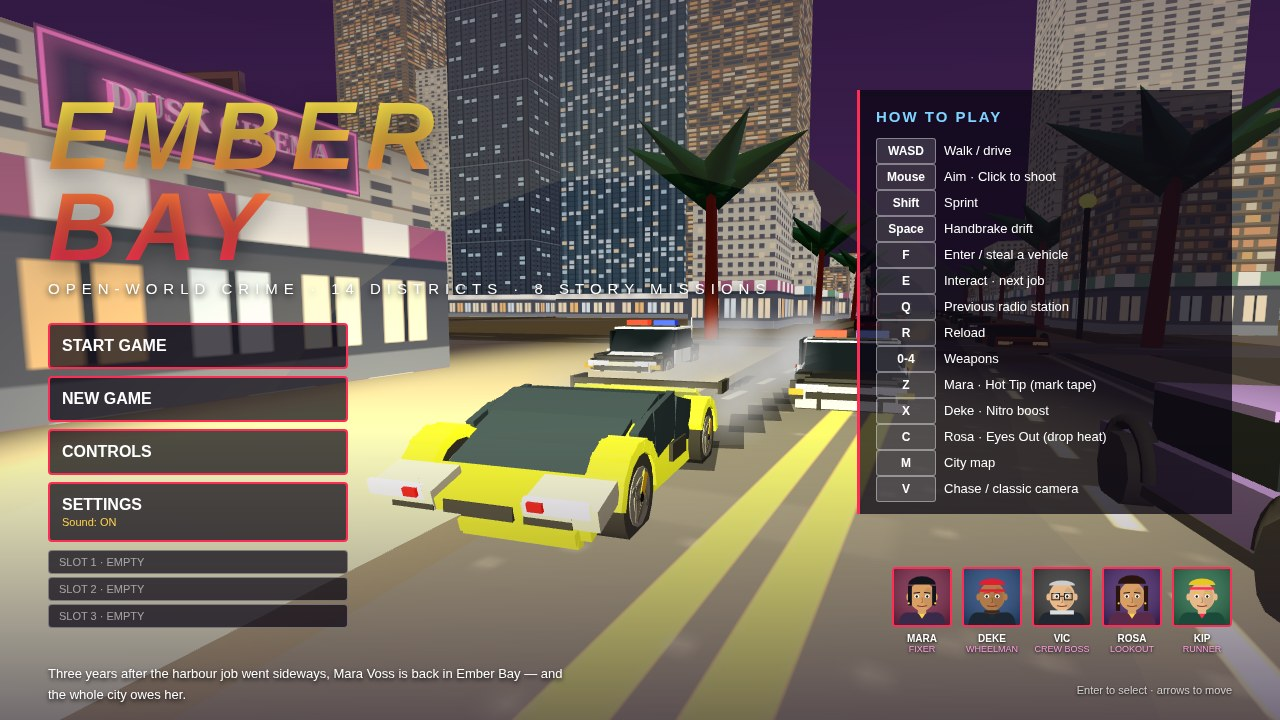
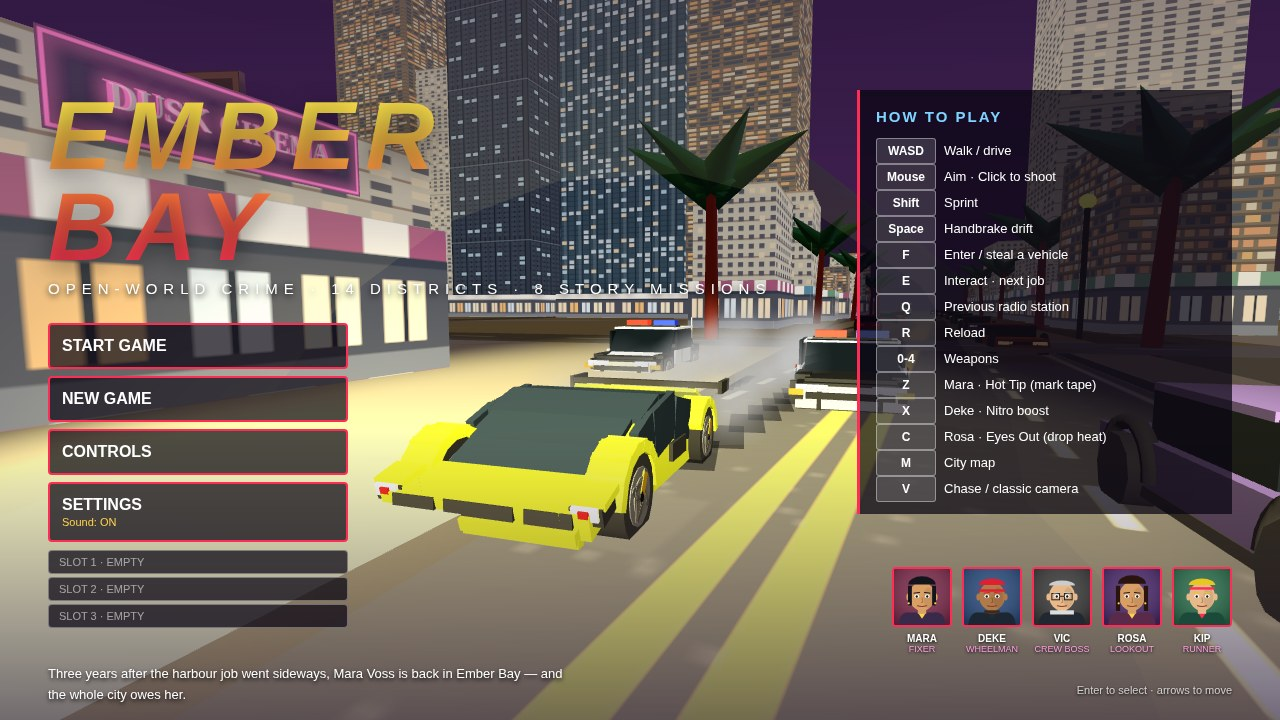
Ember Bay v18.27: v18.25 tire-width covered lamps + black below, on v18.26 full side glass

Changed region(s): [[0.4062, 0.6417, 0.5, 0.7639], [0.2812, 0.6417, 0.375, 0.7028]]

diff --git a/game/src/vehicles.js b/game/src/vehicles.js
@@ -211,7 +211,7 @@ export function makeCar(G, kind, colorIdx = 0) {
     lamps(g, 2.62, -2.62, .9);
   } else if (kind === 'sport') {
     parts(g,[
-[2,.42,4.2,0,.38,-.5,0],[1,.07,1.5,0,.74,.85,0,.28],[2.1,.24,.6,0,.48,1.9,0,.28],[.45,.24,.16,.88,.48,1.99,0,.28,.8],[.45,.24,.16,-.88,.48,1.99,0,.28,-.8],[1.9,.08,.1,0,.26,2.15,0],[.7,.15,.07,0,.44,2.19,2],[.45,.15,.07,-.68,.44,2.19,2],[.45,.15,.07,.68,.44,2.19,2],[1.9,.12,.18,0,.34,2.17,0,.3],[.7,.2,.45,-.8,.55,2.02,3,.3],[.7,.2,.45,.8,.55,2.02,3,.3],[.6,.14,.05,-.8,.58,2.28,5,.3],[.6,.14,.05,.8,.58,2.28,5,.3],[.14,.08,.04,-.62,.58,2.32,6,.3],[.14,.08,.04,.62,.58,2.32,6,.3],[1.6,.06,.44,0,.71,1.35,1,.42],[1.7,.06,.54,0,.9,.9,1,.38],[1.9,.06,.63,0,1.09,.35,1,.28],[1.9,.06,.6,0,1.15,-.25,1,-.09],[1.7,.06,.57,0,1.05,-.83,1,-.25],[1.6,.06,.58,0,.89,-1.38,1,-.32],[1.5,.06,.42,0,.74,-1.85,1,-.29],[.1,.56,.8,-.97,.86,0,1,.15],[.1,.56,.8,.97,.86,0,1,.15],[.1,.46,.48,-.97,.79,.64,1,.32],[.1,.46,.48,.97,.79,.64,1,.32],[.1,.52,.7,-.97,.79,-.75,1,-.2],[.1,.52,.7,.97,.79,-.75,1,-.2],[1.9,.06,1,0,.8,-2.15,0,-.45],[.06,.22,.6,-1.02,.48,-.5,2],[.06,.22,.6,1.02,.48,-.5,2],[2.4,.08,.55,0,1.01,-2.4,2,-.1],[.06,.18,.55,-1.2,1.01,-2.4,2],[.06,.18,.55,1.2,1.01,-2.4,2],[.08,.3,.08,-.7,.82,-2.4,2],[.08,.3,.08,.7,.82,-2.4,2],[1.9,.12,.06,0,.6,-2.58,6],[1.8,.12,.2,0,.28,-2.5,2]],[paint,glass,dark,chrome,wht,head,tail,g2]);
+[2,.42,4.2,0,.38,-.5,0],[1,.07,1.5,0,.74,.85,0,.28],[2.1,.24,.6,0,.48,1.9,0,.28],[.45,.24,.16,.88,.48,1.99,0,.28,.8],[.45,.24,.16,-.88,.48,1.99,0,.28,-.8],[1.9,.08,.1,0,.26,2.15,0],[.7,.15,.07,0,.44,2.19,2],[.45,.15,.07,-.68,.44,2.19,2],[.45,.15,.07,.68,.44,2.19,2],[1.9,.12,.18,0,.34,2.17,0,.3],[.3,.16,.28,-1,.52,2.02,2,.28],[.3,.16,.28,1,.52,2.02,2,.28],[.34,.07,.32,-1,.62,2,0,.28],[.34,.07,.32,1,.62,2,0,.28],[.24,.12,.04,-1,.52,2.18,5,.28],[.24,.12,.04,1,.52,2.18,5,.28],[.09,.06,.03,-1,.52,2.21,6,.28],[.09,.06,.03,1,.52,2.21,6,.28],[1.6,.06,.44,0,.71,1.35,1,.42],[1.7,.06,.54,0,.9,.9,1,.38],[1.9,.06,.63,0,1.09,.35,1,.28],[1.9,.06,.6,0,1.15,-.25,1,-.09],[1.7,.06,.57,0,1.05,-.83,1,-.25],[1.6,.06,.58,0,.89,-1.38,1,-.32],[1.5,.06,.42,0,.74,-1.85,1,-.29],[.1,.56,.8,-.97,.86,0,1,.15],[.1,.56,.8,.97,.86,0,1,.15],[.1,.46,.48,-.97,.79,.64,1,.32],[.1,.46,.48,.97,.79,.64,1,.32],[.1,.52,.7,-.97,.79,-.75,1,-.2],[.1,.52,.7,.97,.79,-.75,1,-.2],[1.9,.06,1,0,.8,-2.15,0,-.45],[.06,.22,.6,-1.02,.48,-.5,2],[.06,.22,.6,1.02,.48,-.5,2],[2.4,.08,.55,0,1.01,-2.4,2,-.1],[.06,.18,.55,-1.2,1.01,-2.4,2],[.06,.18,.55,1.2,1.01,-2.4,2],[.08,.3,.08,-.7,.82,-2.4,2],[.08,.3,.08,.7,.82,-2.4,2],[1.9,.12,.06,0,.6,-2.58,6],[1.8,.12,.2,0,.28,-2.5,2]],[paint,glass,dark,chrome,wht,head,tail,g2]);
     const arch=(x,z,A)=>{for(const d of A){const a=d*Math.PI/180;box(.38,.12,.3,paint,x,.42+.47*Math.cos(a),z+.47*Math.sin(a),g,a,0,0);}};
     const sw=(x,z,A)=>{const w=sportWheel(.42,0xffc21c);w.position.set(x,.42,z);g.add(w);wheels.push(w);arch(x,z,A);};
     const AF=[-72,-48,-24,0,24,48,72],AR=[-72,-48,-24,0,24,48];
